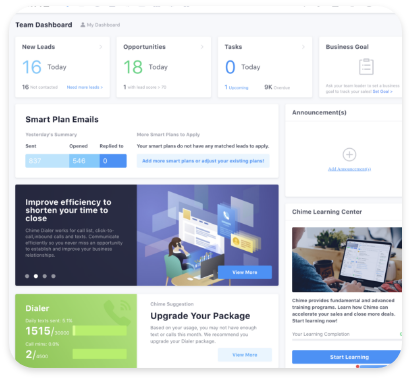
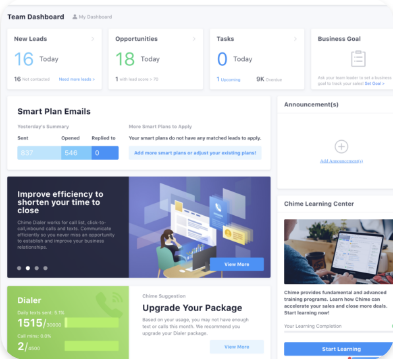
agent home

diff --git a/src/pages/Home/components/AgentBottomBanner/AgentBottomBanner.tsx b/src/pages/Home/components/AgentBottomBanner/AgentBottomBanner.tsx
@@ -1,6 +1,6 @@
 import React from "react";
 import { Image } from "react-bootstrap";
-import { BannerText } from "../BannerText";
+import { BannerText } from "../BannerText/BannerText";
 import styles from "./AgentBottomBanner.module.scss";
 
 export const AgentBottomBanner = () => {
@@ -15,9 +15,10 @@ export const AgentBottomBanner = () => {
                         className="img-fluid"
                     ></Image>
                     <div
-                        className={`fs-1 text-white font-weight-bold ${styles["banner-text"]}`}
+                        className={`text-white ${styles["banner-text"]}`}
                     >
-                        LICENSED
+                       <h1 className="fw-bold">LICENSED</h1>
+                       <p className="mt-3 fw-medium">Do you have a real estate license? Are you looking for a brokerage? Apply here.</p>
                     </div>
                 </div>
                 <div className={`col-6 overflow-hidden px-0 position-relative banner-col-parents ${styles["banner-right"]}`}>
@@ -28,7 +29,8 @@ export const AgentBottomBanner = () => {
                     <div
                         className={`fs-1 text-white font-weight-bold ${styles["banner-text"]}`}
                     >
-                        PRE-LICENSED
+                       <h1 className="fw-bold">PRE-LICENSED</h1>
+                       <p className="mt-3 fw-medium">Don’t have real estate license? Looking to begin your career in real estate? Apply here.</p>
                     </div>
                 </div>
             </div>

diff --git a/src/pages/Home/components/SmaterCard/index.tsx b/src/pages/Home/components/SmaterCard/index.tsx
@@ -22,19 +22,11 @@ const SmarterCard = ({ actions, discription, link, img, bgColor = "bg-pink" }: S
                 <div
                     className={`position-relative overflow-hidden ${styles["smarter-box-2"]}`}
                 >
-                    <img src={img} alt="" className="img-fluid" />
+                    <img src={img} alt="" className="img-fluid" width="100%" />
                     <div
                         className={`position-absolute bottom-0 ${bgColor} px-3 py-2 text-white ${styles["smarter-card-anim"]}`}
                     >
-                        <h3 className="fw-normal mb-0">{actions}</h3>
-                        <hr
-                            style={{
-                                height: "3px",
-                                backgroundColor: "white",
-                                width: "70%",
-                            }}
-                            className="mt-1 bg-white border-0"
-                        />
+                        <h3 className="fw-normal mb-3">{actions}</h3>
                         <p className="mt-1 fw-lighter">{discription}</p>
                         <div className="mt-5 pt-4">
                             <Link

diff --git a/src/pages/Home/components/SmarterAgent/SmarterCard.tsx b/src/pages/Home/components/SmarterAgent/SmarterCard.tsx
@@ -20,13 +20,13 @@ const Smartercard = ({ actions, discription, link, img }: SmaterCardProps) => {
     <div className="col-4">
       <div className={`position-relative overflow-hidden ${style["smarter-box-2"]}`}>
         <img src={img} alt="" className="img-fluid" width="100%" />
-        <div className={`position-absolute bottom-0 bg-pink px-4 py-3 text-white ${style["smarter-card-anim"]}`}>
+        <div className={`position-absolute bottom-0 bg-pink px-4 pt-2 pb-3 text-white ${style["smarter-card-anim"]}`}>
           <h3 className="fw-normal mb-0">{actions}</h3>
           <p className="mt-4">{discription}</p>
-          <div className="mt-5 pt-5">
+          <div className="mt-5 pt-2">
             <Link to={link.href} style={{ textDecoration: "none" }}>
               <div className="text-white d-flex">
-                <p className="pointer">
+                <p className="pointer fw-lighter">
                   {link.name}
                 </p>
                 <AiOutlineArrowRight size="30px" className="ms-2 mb-2" />

diff --git a/src/pages/Home/components/BannerText/BannerText.tsx b/src/pages/Home/components/BannerText/BannerText.tsx
@@ -1,4 +1,5 @@
 import React from "react";
+import style from './BannerText.module.scss';
 
 interface BannerProps {
     title: string;
@@ -9,12 +10,12 @@ export const BannerText = (props: BannerProps) => {
     const { title, description } = props;
 
     return (
-        <div className="position-absolute banner-cols text-white w-100 px-5 pt-4">
-            <hr style={{ width: "35%", height: "3px" }} className="mb-3" />
+        <div className={`position-absolute banner-cols text-white w-100 px-5 pt-4 ${style["banner-text"]}`}>
+            <hr className="mb-3" />
             <h2 className="fw-bolder text-uppercase">
                 {title}
             </h2>
-            <p className="mt-4 fs-5">{description}</p>
+            <p className="mt-4">{description}</p>
         </div>
     );
 };

diff --git a/src/pages/Home/components/AgentBanner/AgentBanner.tsx b/src/pages/Home/components/AgentBanner/AgentBanner.tsx
@@ -1,11 +1,12 @@
 import React from "react";
-import { GradientDivider } from "../../../components/GradientDivider";
-import { BannerText } from "./BannerText";
+import { GradientDivider } from "../../../../components/GradientDivider";
+import { BannerText } from "../BannerText/BannerText";
+import style from './AgentBanner.module.scss';
 
 const AgentBanner = () => {
     return (
         <>
-            <div className="container verflow-hidden px-0 position-relative">
+            <div className={`container verflow-hidden px-0 position-relative ${style["agent-banner"]}`}>
                 <img
                     src="/assets/agent1.png"
                     alt=""

diff --git a/src/pages/Home/components/AgentWelcome/AgentWelcome.tsx b/src/pages/Home/components/AgentWelcome/AgentWelcome.tsx
@@ -30,7 +30,7 @@ export const AgentWelcome = () => {
                         <div className="display-1 text-white">
                             WELCOME HOME
                         </div>
-                        <div className="fs-6 fw-bold text-white">
+                        <div className="fs-5 fw-normal text-white mt-2">
                             At TRU Realty, our mission is to create a diverse
                             and inclusive culture focused on training and
                             education, coupled with innovative technology, in

diff --git a/src/pages/Home/AgentHome.tsx b/src/pages/Home/AgentHome.tsx
@@ -7,7 +7,7 @@ import { Container } from "react-bootstrap";
 import Layout from "../../layouts/Layout";
 import { MiddleBanner } from "../../components/MiddleBanner/MiddleBanner";
 import TruIntro from "../../components/TruIntro";
-import AgentBanner from "./components/AgentBanner";
+import AgentBanner from "./components/AgentBanner/AgentBanner";
 import YourTools from "./components/YourTools";
 import { AgentBottomBanner } from "./components/AgentBottomBanner/AgentBottomBanner";
 import { AgentWelcome } from "./components/AgentWelcome";

diff --git a/src/pages/Home/components/AgentBottomBanner/AgentBottomBanner.module.scss b/src/pages/Home/components/AgentBottomBanner/AgentBottomBanner.module.scss
@@ -4,11 +4,19 @@
 
 .banner-text {
     position: absolute;
-    bottom: 62px;
+    bottom: 10px;
     left: 100px;
     z-index: 2;
+    h1{
+        font-size: 60px;
+    }
+    p{
+        font-size: 35px;
+        line-height: 47px;
+        font-weight: 100;
+    }
 }
 
-.bannter-left:hover {
-
+.banner-left:hover {
+    background: linear-gradient(135deg, rgba(112,38,64,0.6446953781512605) 0%, rgba(112,38,112,0) 100%);
 }

diff --git a/src/layouts/Footer.tsx b/src/layouts/Footer.tsx
@@ -5,7 +5,7 @@ import { GrLinkedinOption } from "react-icons/gr";
 const Footer = () => {
   return (
     <div className="container mt-5 pt-5 mb-4 ">
-      <div className={`row gx-0 bg-white text-dark gx-4 gy-4`}>
+      <div className={`row gx-0 bg-white text-primary gx-4 gy-4`}>
         <div className="col-12 col-md-5 col-lg-3">
           <div>
             <h5 className="fw-bold">CORPORATE HEAQUARTERS</h5>

diff --git a/src/pages/Home/components/Banner/Banner.tsx b/src/pages/Home/components/Banner/Banner.tsx
@@ -1,7 +1,7 @@
 import React from "react";
 import { Image } from "react-bootstrap";
 import { GradientDivider } from "../../../../components/GradientDivider";
-import { BannerText } from "../BannerText";
+import { BannerText } from "../BannerText/BannerText";
 import styles from "./Banner.module.scss";
 
 export const Banner = () => {

diff --git a/src/pages/Home/components/SmaterCard/SmarterCard.module.scss b/src/pages/Home/components/SmaterCard/SmarterCard.module.scss
@@ -4,9 +4,14 @@
 }
 .smarter-card-anim {
     height: 20%;
-    border-radius: 20px;
     transition: all 0.5s;
     width: 100%;
+    h3{
+        font-size: 40px;
+    }
+    p{
+        font-size: 25px;
+    }
 }
 .smarter-card-anim:hover {
     cursor: pointer;

diff --git a/src/pages/Home/components/ConsumerBanner.tsx b/src/pages/Home/components/ConsumerBanner.tsx
@@ -1,6 +1,6 @@
 import React from "react";
 import { GradientDivider } from "../../../components/GradientDivider";
-import { BannerText } from "./BannerText";
+import { BannerText } from "./BannerText/BannerText";
 
 const ConsumerBanner = () => {
     return (
